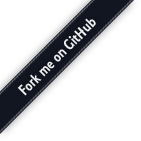
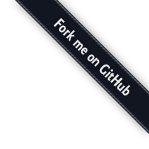
Tweak for mobile/narrow displays
The WebGL 1 tab was being coverted by the `Fork Me` ribbon on mobile
devices (or any narrow device), making it hard to get back to WebGL 1.
I simply moved the ribbon to the right side of the screen and updated
the official images to match.

diff --git a/index.html b/index.html
@@ -396,7 +396,7 @@
         </div>
     </script>
 
-    <a href="https://github.com/AnalyticalGraphicsInc/webglreport" target="_blank"><img style="position: absolute; top: 0; left: 0; border: 0;" src="images/ForkMe_Ribbons/ForkMe_Blk.png" alt="Fork me on GitHub"></a>
+    <a href="https://github.com/AnalyticalGraphicsInc/webglreport" target="_blank"><img style="position: absolute; top: 0; right: 0; border: 0;" src="images/ForkMe_Ribbons/ForkMe_Blk.png" alt="Fork me on GitHub"></a>
 
     <h1>WebGL Report</h1>
 
